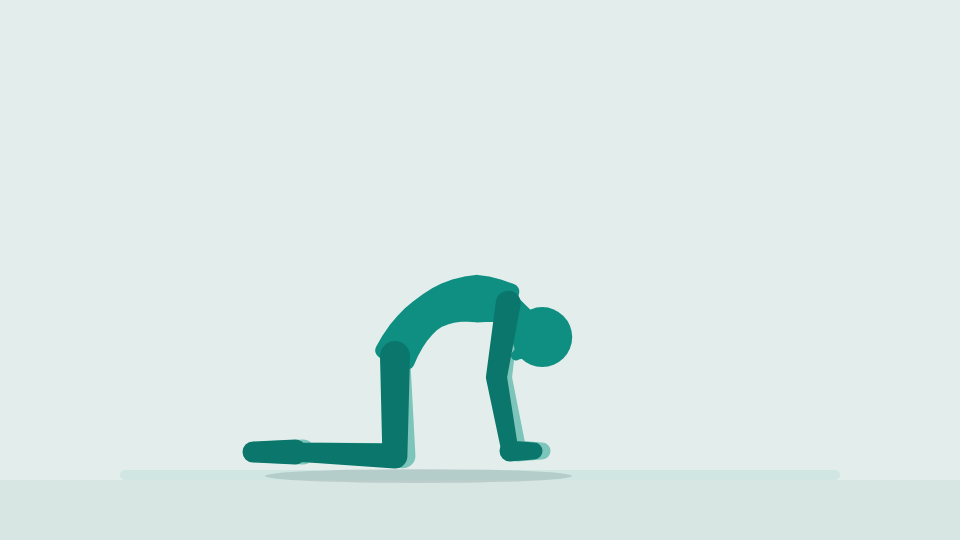
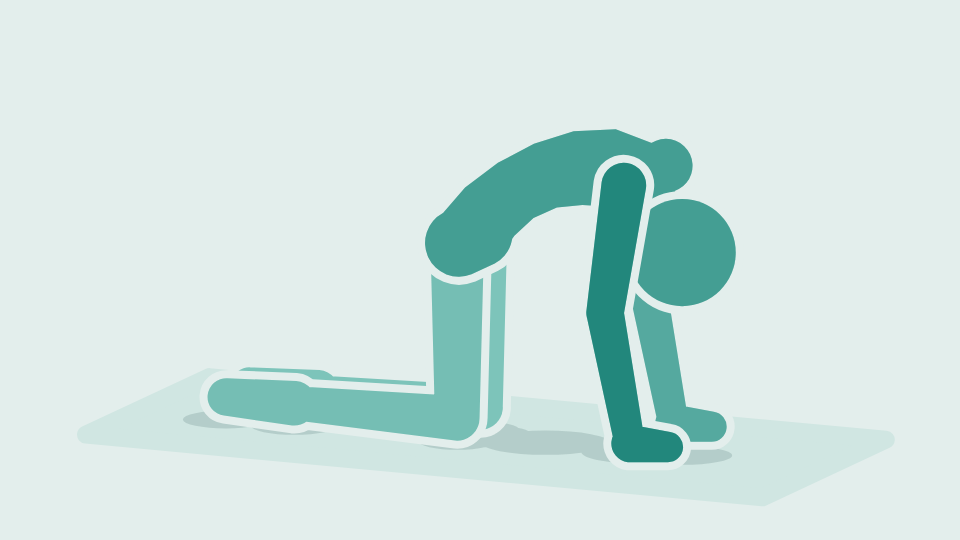
feat: implement rendering script for 3D exercise photos and update documentation

Changed region(s): [[0.1875, 0.237, 0.7812, 0.9185]]

diff --git a/README.md b/README.md
@@ -87,8 +87,15 @@ The old engine poses a flat figure in screen coordinates. Anything moving toward
 
 1. Write the clip in `src/data/exercise-animations-3d.ts`, named after the old one with a `_3D` suffix.
 2. Point the exercise's `animation` at it (in `src/data/exercises.ts`, `mobility-tests.ts` or `test-warmup.ts`). Leave the old clip in `exercise-animations.ts` until the new one has been checked on a device, so switching back is a one-line change. Delete the old clip after that.
-3. `rig3d.test.ts` picks up every 3D clip used by an exercise and holds it to the same checks: bones never stretch, pinned hands and feet don't slip, nothing goes through the floor, the clip loops, its still frame exists, and everything it shows stays in frame. Add a test for what matters in that exercise (for example, the knees stay planted in cat cow; the elbow stays at the side in shoulder external rotation).
-4. Check it on a phone before merging, and update the list below.
+3. If it's a library exercise, redraw its photo, the still image on its tile in the library, from the new clip, so the tile matches the animation:
+
+   ```bash
+   node scripts/render-exercise-photo.mjs CAT_COW_3D assets/images/exercises/cat-cow.png
+   ```
+
+   It draws the clip's still frame (`stillFrame`) at 960x540, the way the app draws the figure but without the highlight, over the existing file. The still frame is also what shows when reduced motion is on, so make it the pose that best shows the exercise. Redraw the photo whenever a clip's still frame or camera changes. Keep the file name: a new name with the same image bytes doesn't arrive by over-the-air update.
+4. `rig3d.test.ts` picks up every 3D clip used by an exercise and holds it to the same checks: bones never stretch, pinned hands and feet don't slip, nothing goes through the floor, the clip loops, its still frame exists, and everything it shows stays in frame. Add a test for what matters in that exercise (for example, the knees stay planted in cat cow; the elbow stays at the side in shoulder external rotation).
+5. Check it on a phone before merging, and update the list below.
 
 Tip: the rig is plain TypeScript, so frames can be checked without a device. Import `rig3d.ts` and the clip in Node 22 or newer (`node --experimental-strip-types`, after replacing the `@/` import with a relative path), then write `stageClip(clip)` and `frameAt(clip, view, time)` out as SVG paths in an HTML page and screenshot it in a browser.
 

diff --git a/AGENTS.md b/AGENTS.md
@@ -38,6 +38,7 @@ The animation engine is being reworked. A new 3D engine (`src/lib/rig3d.ts`, cli
 - Pick the camera that makes the movement readable, highlight the working body part, and add a `trail` for sweeps and rotations.
 - No eyes on the figure. The nose is drawn only on a face turned toward the camera, as a line on the face; in profile and from behind the head is a plain circle.
 - When you move an exercise over, keep the old clip until it's been checked on a device, add a test for what matters in that exercise to `src/lib/rig3d.test.ts`, and update the migration list in `README.md`.
+- A library exercise's photo (its tile in the library, `assets/images/exercises/`) is its clip's still frame, drawn without the highlight. Redraw it whenever the exercise moves to the new engine or its clip's still frame or camera changes: `node scripts/render-exercise-photo.mjs <CLIP_NAME_3D> assets/images/exercises/<file>.png`. Keep the file name.
 
 ## Building with EAS
 
